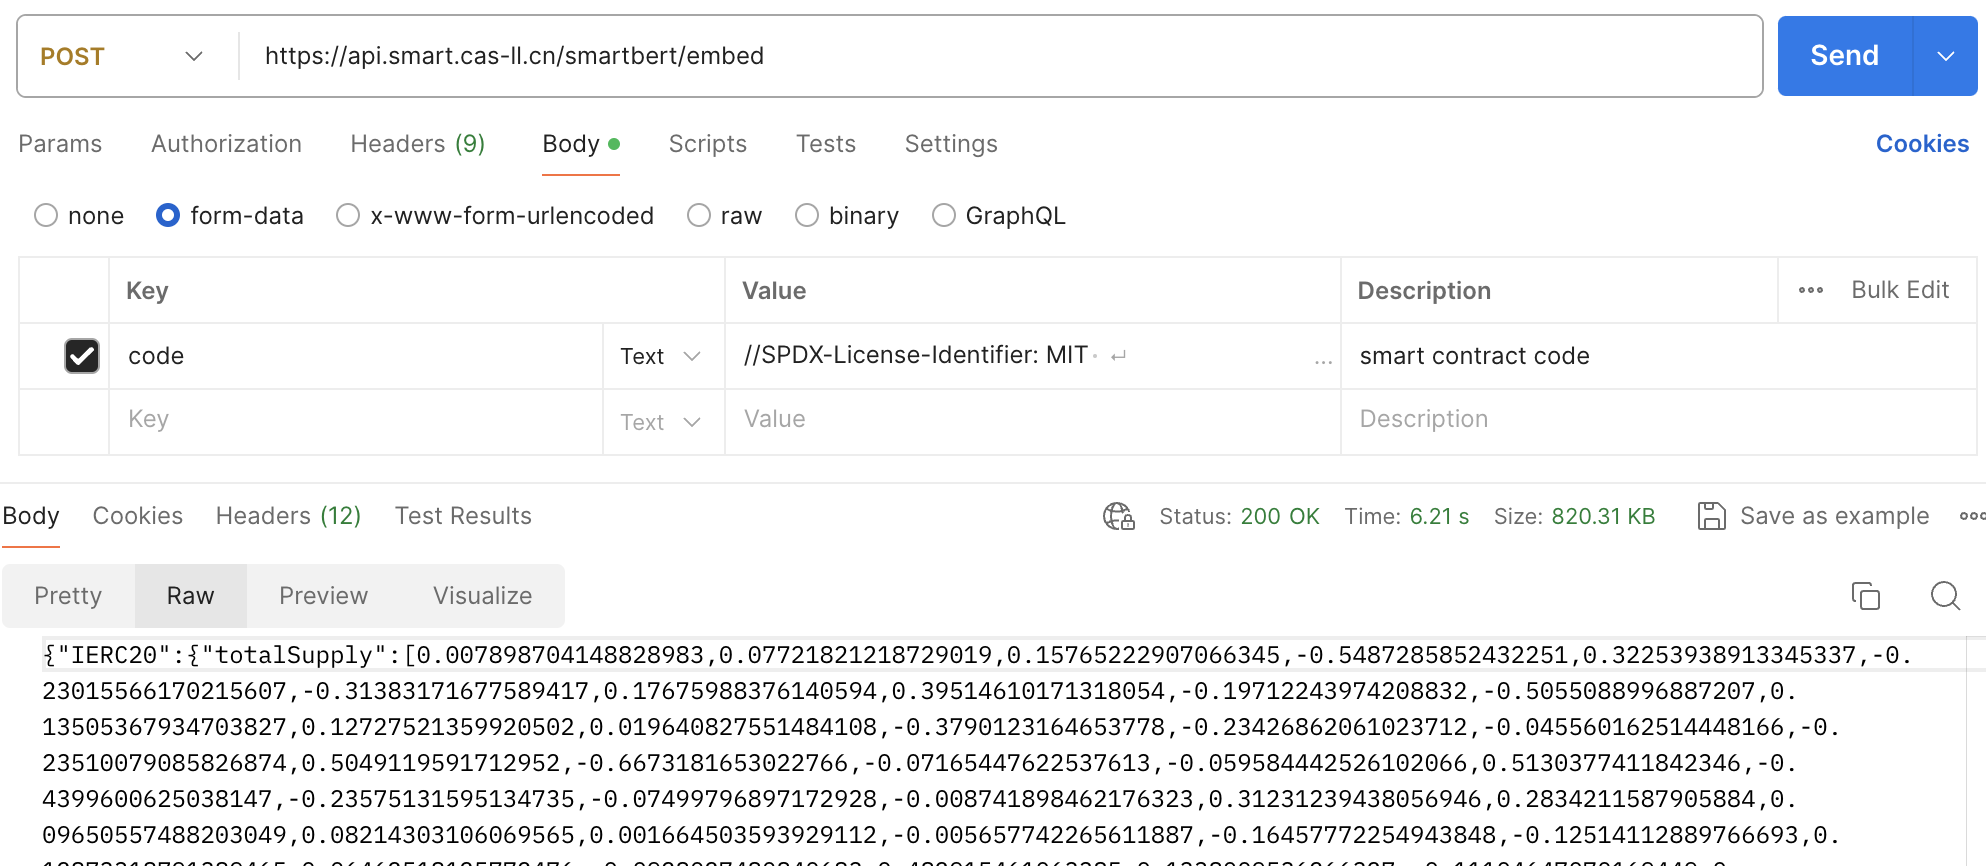
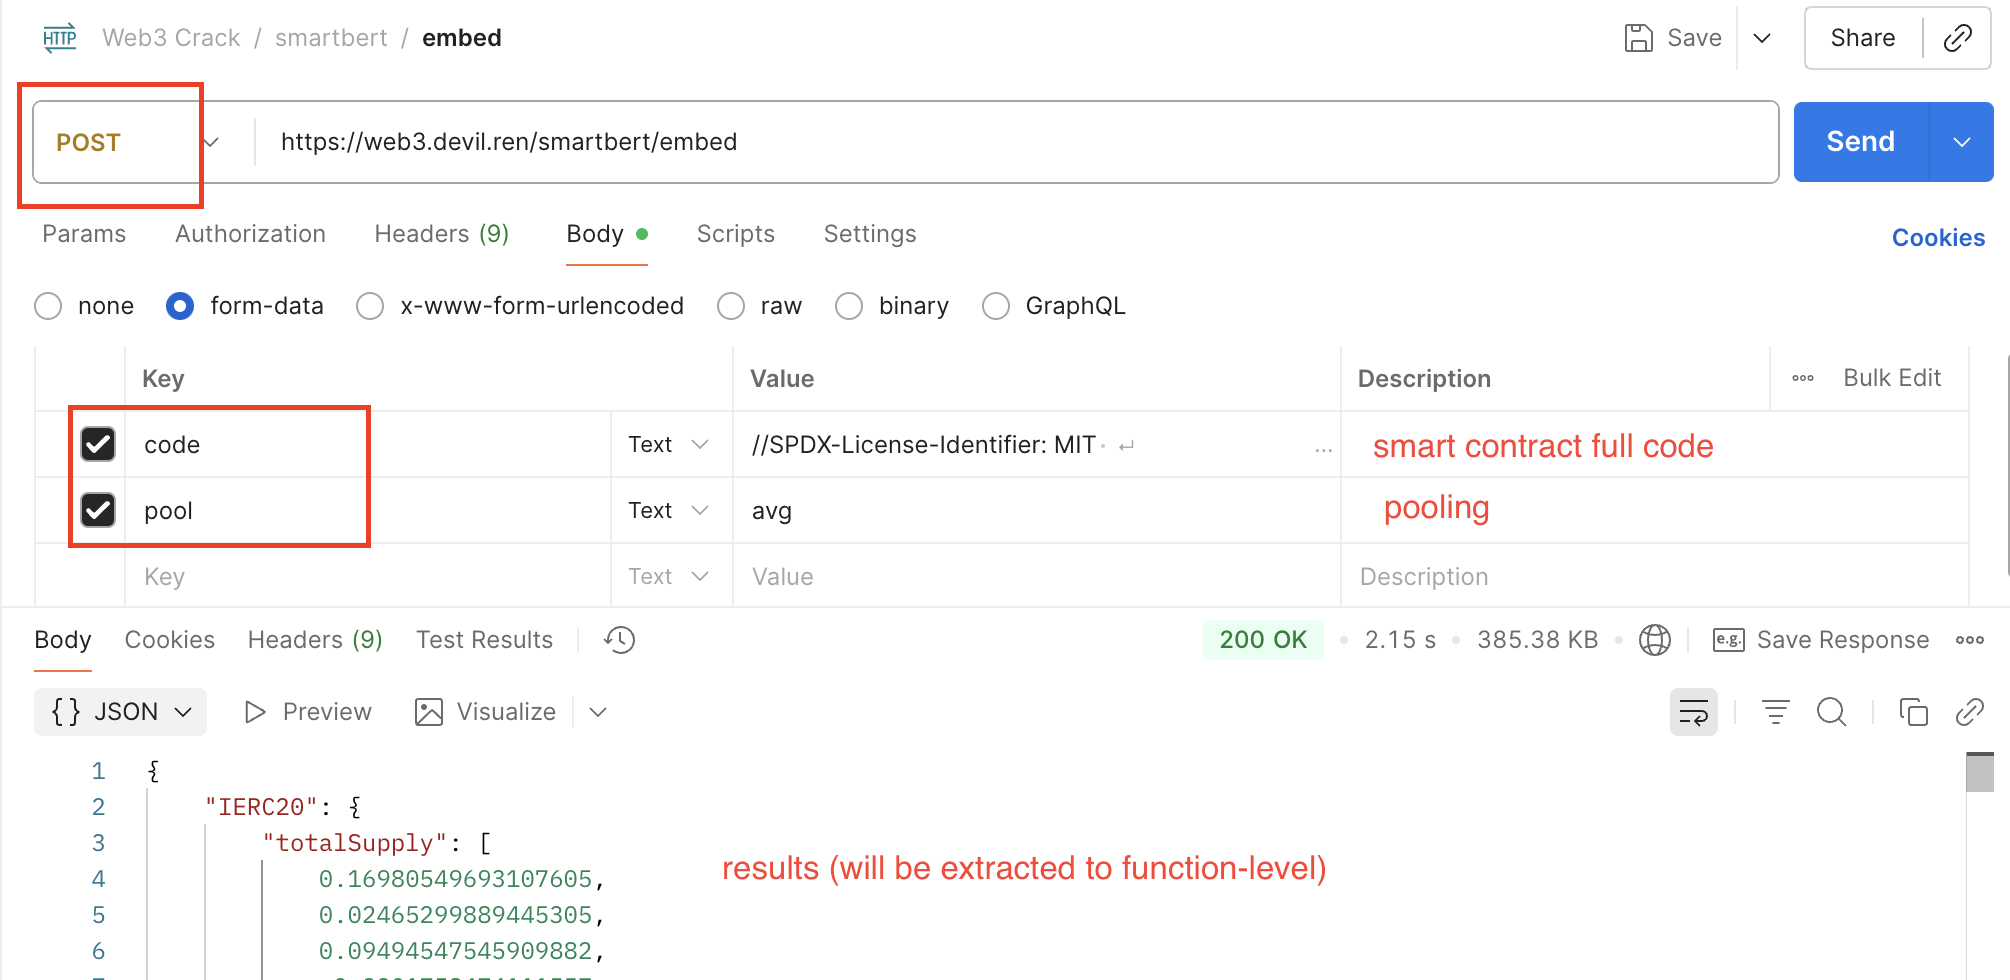
update readme

diff --git a/README.md b/README.md
@@ -1,14 +1,14 @@
 # Web3 Software Engineering Toolkit
 
-🤩 We are building a comprehensive toolkit for **Software Engineering of Web3**.
+🤩 We are building a comprehensive toolkit for **Web3 Software Engineering**!
 
-To try our research tools online, please visit the following website:
-
-👉 <https://web3se-lab.github.io>
+**🚀 Website:** <https://web3se-lab.github.io>
+**🤗 Dataset:**: <https://huggingface.co/datasets/web3se/smart-contract-intent-vul-dataset>
+**🤗 Models:**: <https://huggingface.co/web3se/SmartBERT-v2>
 
 ## Toolkit
 
-**Tags: Web3, AI, Software Engineering**
+**Tags**: Web3, AI, Software Engineering
 
 - 🕸 Web3 Data Crawler
 - 🤔 Web3 Data Collection, Labelling, and Analysis
@@ -26,10 +26,13 @@ To try our research tools online, please visit the following website:
 
 **Technical Points:**
 
-- Convert **smart contract** code context to vectors.
-- Built with **BERT/RoBERTa**-based pre-training models.
-- MLM-trained on **16,000+** (V2) real smart contracts.
-- Serving APIs: [tokenize](http://api.smart.cas-ll.cn/smartbert/tokenize), [embed](http://api.smart.cas-ll.cn/smartbert/embed), [code tree](http://api.smart.cas-ll.cn/smartbert/tree).
+- Built with **BERT-based** pre-training models.
+- Encode **smart contract** function-level code into embeddings.
+- MLM-trained on **16,000+** (V2) real-world smart contracts.
+- Serving APIs (POST):
+    - [embed](https://web3.devil.ren/smartbert/embed)
+    - [tokenize](https://web3.devil.ren/smartbert/tokenize)
+    - [code tree](https://web3.devil.ren/smartbert/tree).
 
 ### Project-2: SmartIntentNN
 
@@ -43,25 +46,27 @@ To try our research tools online, please visit the following website:
 
 **Technical Guide:**
 
-- ⚙ Frontend repository: <https://github.com/web3se-lab/web3se-lab.github.io>
-- 📱 Pages for testing the model online: [Detect](https://web3se-lab.github.io), [Highlight](https://web3se-lab.github.io/highlight/), [Evaluate](https://web3se-lab.github.io/evaluate/)
 - 🕵 Click **"Detect My Smart Contract"** to copy and detect your customized smart contract.
 - 🚀 Click **"Predict 🚀"** to detect the malicious intents in smart contracts.
 - 🌲 Click **"CCTree 🌲"** to view the smart contract code tree.
+- 📱 Pages for testing the model online:
+    - [Detect](https://web3se-lab.github.io)
+    - [Highlight](https://web3se-lab.github.io/highlight/)
+    - [Evaluate](https://web3se-lab.github.io/evaluate/)
+- ⚙ Frontend repository: <https://github.com/web3se-lab/web3se-lab.github.io>
 
 **Technical Points:**
 
-- SmartIntentNN V1.0 is trained and evaluated on **Tensorflow.js**.
-- SmartIntentNN V1.0 employs a **Universal Sentence Encoder** to generate smart contract embeddings.
-- The intent highlight model is trained using **K-means clustering**.
-- SmartIntentNN V2.0 will integrate **SmartBERT** to embed smart contracts.
-- SmartIntentNN V2.0 is currently under writing. Stay tuned! (Maybe meet in ICSE2026).
+- **SmartIntentNN V1.0** is trained and evaluated on **Tensorflow.js**.
+- **SmartIntentNN V1.0** employs a **Universal Sentence Encoder** to generate smart contract embeddings.
+- The **intent highlight model** is trained using **K-means clustering**.
+- **SmartIntent V2** integrates **SmartBERT** to embed smart contracts.
 
 ## Dataset
 
 We have compiled a comprehensive dataset of **vulnerabilities** and **intents** in smart contracts!
 
-**💽 Access Our Dataset via this API: <https://api.smart.cas-ll.cn>**
+**💽 Access Our Dataset via this API: <https://web3.devil.ren>**
 
 The URL above offers a `GET/POST JSON` API.
 
@@ -71,7 +76,7 @@ Please refer to the guidelines below:
 
 ### Smart Contract Intent
 
-<https://api.smart.cas-ll.cn/data/intent?key=1>
+<https://web3.devil.ren/data/intent?key=1>
 
 Please iterate over keys: `1, 2, 3, ...`. If an error occurs, skip that key and continue (key++, continue).
 
@@ -92,7 +97,7 @@ Ground truth label distribution for Intent data:
 
 ### Smart Contract Vulnerability
 
-<https://api.smart.cas-ll.cn/data/vulnerability?key=1>
+<https://web3.devil.ren/data/vulnerability?key=1>
 
 Please iterate over keys: `1, 2, 3, ...`. If an error occurs, skip that key and continue (key++, continue).
 
@@ -156,14 +161,6 @@ yarn
 # or
 npm install
 ```
-
-## Prepare
-
-Prepare a csv dataset of smart contracts and put them in the directory `/db`.
-
-For BSC Mainnet, download the latest verified contracts from [BSC verified contracts addresses](https://bscscan.com/exportData?type=open-source-contract-codes).
-
-Then, you need to config your own _bscscan_, _etherscan_ [API](https://docs.bscscan.com/api-endpoints/contracts) secret keys in `/src/config/network.json`.
 
 ## Database
 
@@ -233,22 +230,22 @@ yarn stop
 
 **APIs for dataset**
 
-- [data/get](http://api.smart.cas-ll.cn/data/get)
-- [data/intent](http://api.smart.cas-ll.cn/data/intent)
-- [data/vulnerability](http://api.smart.cas-ll.cn/data/vulnerability)
+- [data/get](https://web3.devil.ren/data/get)
+- [data/intent](https://web3.devil.ren/data/intent)
+- [data/vulnerability](https://web3.devil.ren/data/vulnerability)
 
 **SmartBERT APIs**
 
-- [tokenize](http://api.smart.cas-ll.cn/smartbert/tokenize)
-- [embed](http://api.smart.cas-ll.cn/smartbert/embed)
-- [token/get](http://api.smart.cas-ll.cn/smartbert/tree)
+- [tokenize](https://web3.devil.ren/smartbert/tokenize)
+- [embed](https://web3.devil.ren/smartbert/embed)
+- [token/get](https://web3.devil.ren/smartbert/tree)
 
 **POST params**
 
 1. `code` smart contract code content (Solidity)
 2. `pool` pooling type: `avg`, `max`, `cls`
 
-EXAMPLE: [embed](http://api.smart.cas-ll.cn/smartbert/embed) is used to convert smart contract code to embedding vectors:
+EXAMPLE: [embed](https://web3.devil.ren/smartbert/embed) is used to convert smart contract code to embedding vectors:
 
 ```json
 {
